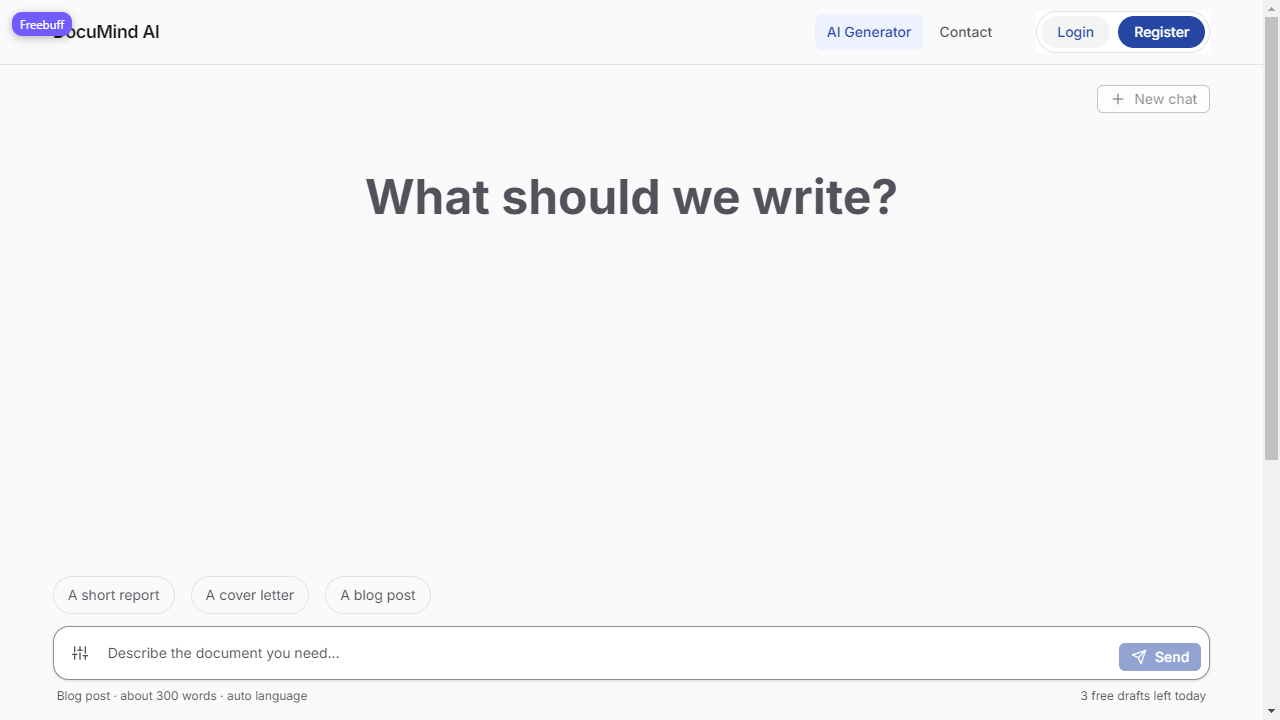
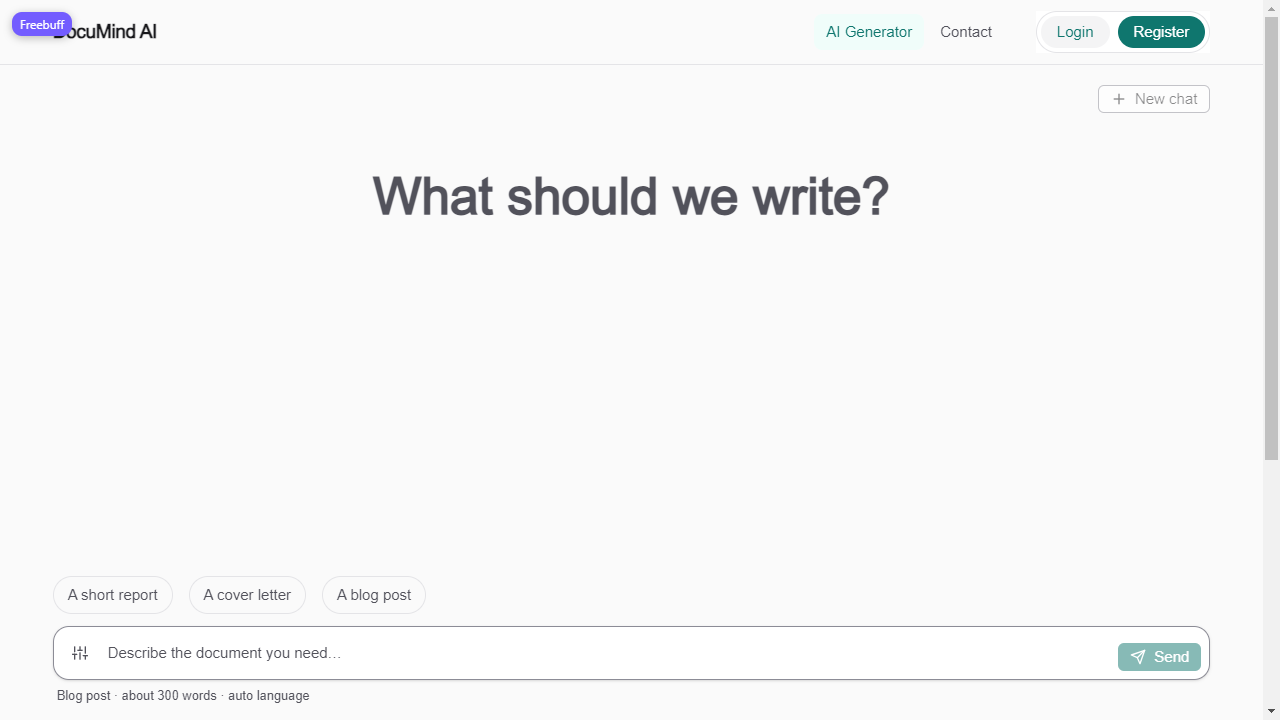
Documind AI Finalized

diff --git a/frontend/src/app/globals.css b/frontend/src/app/globals.css
@@ -3,6 +3,7 @@
 /* ==========================================================================
    DocuMind AI colour system
    Change a hex value here and it changes everywhere.
+   Palette: teal primary + orange accent (the accent keeps the "ai" token names)
    ========================================================================== */
 :root {
   color-scheme: light;
@@ -17,18 +18,18 @@
   --text: #18181b;
   --text-muted: #52525b;
 
-  /* PRIMARY */
-  --primary: #2646a3;
-  --primary-hover: #1e3a8a;
+  /* PRIMARY (teal) */
+  --primary: #0f766e;
+  --primary-hover: #115e59;
   --primary-foreground: #ffffff;
-  --primary-soft: #eef2ff;
-  --link: #2646a3;
+  --primary-soft: #f0fdfa;
+  --link: #0f766e;
 
-  /* AI accent */
-  --ai: #7055d8; /* text and icons */
-  --ai-soft: #f3f0ff;
-  --ai-decor: #a995f5; /* glow / decoration only, never text */
-  --focus: #7055d8;
+  /* AI accent (orange) */
+  --ai: #c2410c; /* text and icons */
+  --ai-soft: #fff7ed;
+  --ai-decor: #fb923c; /* glow / decoration only, never text */
+  --focus: #c2410c;
 
   /* status */
   --success: #15803d;
@@ -37,8 +38,8 @@
   --error-text: #b91c1c; /* text */
   --error-soft: #fef2f2;
   --error-foreground: #ffffff; /* text on a solid error button */
-  --warning: #b45309;
-  --warning-soft: #fffbeb;
+  --warning: #a16207; /* yellow, so it stays distinct from the orange accent */
+  --warning-soft: #fefce8;
 
   /* file type chips */
   --file-pdf: #b91c1c;
@@ -62,17 +63,17 @@
     --text: #e4e4e7;
     --text-muted: #a1a1aa;
 
-    /* PRIMARY */
-    --primary: #5275d1;
-    --primary-hover: #6b8ce0;
-    --primary-foreground: #ffffff;
-    --primary-soft: color-mix(in srgb, #5275d1 18%, transparent);
-    --link: #9bb5ff;
+    /* PRIMARY (teal): light teal fill with dark text for good contrast */
+    --primary: #2dd4bf;
+    --primary-hover: #5eead4;
+    --primary-foreground: #042f2e;
+    --primary-soft: color-mix(in srgb, #2dd4bf 16%, transparent);
+    --link: #5eead4;
 
-    --ai: #b39afb;
-    --ai-soft: color-mix(in srgb, #b39afb 14%, transparent);
-    --ai-decor: #b39afb;
-    --focus: #b39afb;
+    --ai: #fb923c;
+    --ai-soft: color-mix(in srgb, #fb923c 14%, transparent);
+    --ai-decor: #fb923c;
+    --focus: #fb923c;
 
     --success: #4ade80;
     --success-soft: color-mix(in srgb, #4ade80 14%, transparent);
@@ -80,8 +81,8 @@
     --error-text: #f87171;
     --error-soft: color-mix(in srgb, #f87171 14%, transparent);
     --error-foreground: #0b0b0d;
-    --warning: #fbbf24;
-    --warning-soft: color-mix(in srgb, #fbbf24 14%, transparent);
+    --warning: #facc15;
+    --warning-soft: color-mix(in srgb, #facc15 14%, transparent);
 
     --file-pdf: #f87171;
     --file-pdf-soft: color-mix(in srgb, #f87171 14%, transparent);

diff --git a/frontend/src/components/layout/public-shell.tsx b/frontend/src/components/layout/public-shell.tsx
@@ -81,7 +81,7 @@ function AuthActions({ compact = false }: { compact?: boolean }) {
             variant="ghost"
             size={size}
             loading={loggingOut}
-            className="rounded-full bg-surface-muted text-[#2646a3] hover:bg-surface-muted hover:text-[#2646a3] in-data-[theme=dark]:text-white in-data-[theme=dark]:hover:text-white"
+            className="rounded-full bg-surface-muted text-[#0f766e] hover:bg-surface-muted hover:text-[#0f766e] in-data-[theme=dark]:text-white in-data-[theme=dark]:hover:text-white"
             onClick={async () => {
               setLoggingOut(true);
               await logout();
@@ -98,7 +98,7 @@ function AuthActions({ compact = false }: { compact?: boolean }) {
               variant: "ghost",
               size,
               className:
-                "rounded-full bg-surface-muted text-[#2646a3] hover:bg-surface-muted hover:text-[#2646a3] in-data-[theme=dark]:text-white in-data-[theme=dark]:hover:text-white",
+                "rounded-full bg-surface-muted text-[#0f766e] hover:bg-surface-muted hover:text-[#0f766e] in-data-[theme=dark]:text-white in-data-[theme=dark]:hover:text-white",
             })}
           >
             Login
